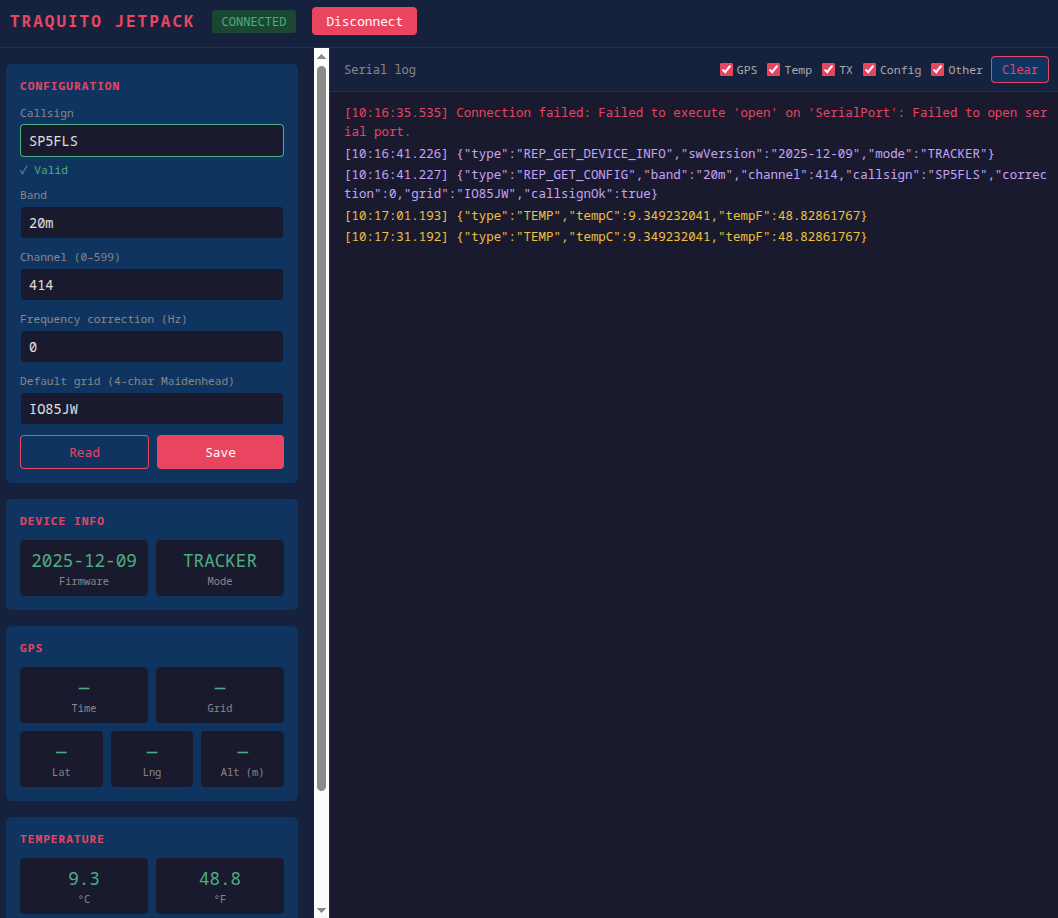
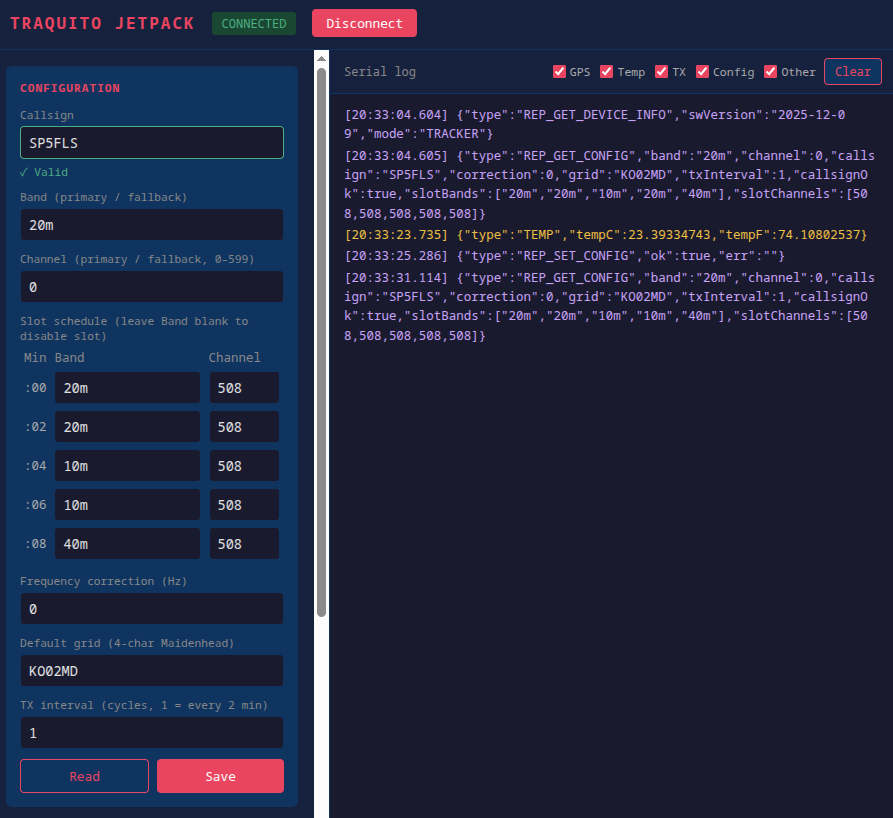
readme new screenshot

Changed region(s): [[0.0, 0.0, 0.9978, 1.0]]

diff --git a/README.md b/README.md
@@ -1,6 +1,6 @@
 # About
 
-This is a modification of the [Traquito Jetpack WSPR tracker](https://traquito.github.io/tracker/) firmware. The code is experimental.
+This is a modification of the [Traquito Jetpack WSPR tracker](https://traquito.github.io/tracker/) firmware to use the same, low cost jetpack hardware but as a regular WSPR beacon. The code is experimental.
 
 Disclaimer: most of the original code modifications have been vibe-coded using Claude Code.
 
@@ -22,17 +22,16 @@ That (and this) project relies heavily on [picoinf](https://github.com/dmalnati/
 - **Less frequent temperature reading** — polled every 30 seconds instead of every second.
 - **`config.html`** — local web page to configure the beacon over WebSerial (Chrome/Edge 89+).
 
-
 ## Use pre-compiled binaries
 
-Pre-compiled `.uf2` binaries are published in releases: https://github.com/filipsPL/TraquitoBeacon/releases/
+Pre-compiled `.uf2` binaries are published in releases: <https://github.com/filipsPL/TraquitoBeacon/releases/>
 
 To flash a `.uf2` file:
+
 1. Hold **BOOTSEL** on the Pico while plugging in USB — it mounts as `RPI-RP2`.
 2. Copy `TraquitoJetpack.uf2` to the drive. The device reboots automatically.
 
 > **Note:** After flashing firmware that changes the configuration struct layout, send `{"type":"REQ_DELETE_CONFIG"}` via serial to erase stale flash data, then reconfigure.
-
 
 ## How to compile
 
@@ -59,7 +58,6 @@ Output: `build/src/TraquitoJetpack.uf2`
 
 > **Note:** The `ext/picoinf` submodule contains local patches required for the Debian/Ubuntu toolchain. See [Build fixes](#build-fixes-for-debianubuntu-gcc-arm-none-eabi-132) below if you reset or update the submodule.
 
-
 ## Configuration
 
 ### Via `config.html` and Web Serial
@@ -73,15 +71,15 @@ Open `config.html` directly in Chrome or Edge (89+). Click **Connect**, select t
 
 **Configuration fields:**
 
-| Field | Description |
-|-------|-------------|
-| Callsign | Amateur radio callsign (up to 6 characters) |
-| Band | Primary/fallback band (e.g. `20m`) |
-| Channel | Primary/fallback channel (0–599) |
-| Frequency correction | Signed Hz offset to compensate for Si5351 crystal error |
-| Default grid | 4-char Maidenhead locator used before GPS 3D fix |
-| TX interval | Number of 10-minute cycles between transmissions (default 1) |
-| Slot schedule | Per-slot band + channel for each 2-minute window in the cycle |
+| Field                | Description                                                   |
+| -------------------- | ------------------------------------------------------------- |
+| Callsign             | Amateur radio callsign (up to 6 characters)                   |
+| Band                 | Primary/fallback band (e.g. `20m`)                            |
+| Channel              | Primary/fallback channel (0–599)                              |
+| Frequency correction | Signed Hz offset to compensate for Si5351 crystal error       |
+| Default grid         | 4-char Maidenhead locator used before GPS 3D fix              |
+| TX interval          | Number of 10-minute cycles between transmissions (default 1)  |
+| Slot schedule        | Per-slot band + channel for each 2-minute window in the cycle |
 
 **Slot schedule table** — each row corresponds to one 2-minute WSPR window within the 10-minute cycle. Leave the Band field blank to disable a slot (no transmission that window).
 
@@ -90,15 +88,16 @@ Open `config.html` directly in Chrome or Edge (89+). Click **Connect**, select t
 ### Via serial
 
 Open a serial console:
+
 ```bash
 tio --map INLCRNL,ODELBS --timestamp -e -b 115200 /dev/ttyACM0
 ```
 
 Send JSON commands, e.g.:
+
 ```json
 {"type":"REQ_SET_CONFIG","callsign":"SP5FLS","band":"20m","channel":414,"correction":0,"grid":"IO85","txInterval":1,"slotBands":["20m","10m","","",""],"slotChannels":[414,0,0,0,0]}
 ```
-
 
 ## Operational details
 
@@ -107,7 +106,7 @@ Send JSON commands, e.g.:
 The scheduler operates on a 10-minute cycle aligned to even UTC minutes (standard WSPR windows). Within each cycle there are 5 slots:
 
 | Slot | UTC minute offset | Configurable |
-|------|-------------------|--------------|
+| ---- | ----------------- | ------------ |
 | 1    | :00               | Yes          |
 | 2    | :02               | Yes          |
 | 3    | :04               | Yes          |
@@ -132,19 +131,19 @@ Output frequency is derived entirely from the configured band and channel via `W
 
 ### Config API
 
-| Command | Description |
-|---------|-------------|
-| `REQ_GET_CONFIG` | Returns all configuration fields including per-slot arrays |
-| `REQ_SET_CONFIG` | Sets all configuration fields; per-slot `slotBands[]` and `slotChannels[]` are optional (existing values kept if omitted) |
-| `REQ_DELETE_CONFIG` | Erases stored config from flash and resets to defaults. Required after firmware upgrades that change the config struct layout. |
-| `REQ_GET_DEVICE_INFO` | Returns firmware version and current mode |
-
+| Command               | Description                                                                                                                    |
+| --------------------- | ------------------------------------------------------------------------------------------------------------------------------ |
+| `REQ_GET_CONFIG`      | Returns all configuration fields including per-slot arrays                                                                     |
+| `REQ_SET_CONFIG`      | Sets all configuration fields; per-slot `slotBands[]` and `slotChannels[]` are optional (existing values kept if omitted)      |
+| `REQ_DELETE_CONFIG`   | Erases stored config from flash and resets to defaults. Required after firmware upgrades that change the config struct layout. |
+| `REQ_GET_DEVICE_INFO` | Returns firmware version and current mode                                                                                      |
 
 ## Build fixes for Debian/Ubuntu (gcc-arm-none-eabi 13.2)
 
 The `ext/picoinf` submodule required local patches to build on a standard Debian/Ubuntu toolchain. These patches are not upstream — reapply them if you reset or update the submodule.
 
 **Root causes:**
+
 - The packaged `gcc-arm-none-eabi` uses its own internal `stdint.h` rather than newlib's, so `__int64_t_defined` is never set, causing `PRIu64`/`SCNu*` macros from newlib's `inttypes.h` to be undefined even after `#include <cinttypes>`.
 - JerryScript's heap size (default 512 KB) was not being overridden correctly due to CMake cache variable precedence, causing the firmware's BSS to overflow Pico RAM by ~348 KB.
 - WsprEncoded unit tests were being compiled and cross-linked with the ARM toolchain (missing POSIX syscalls).
@@ -153,13 +152,13 @@ The `ext/picoinf` submodule required local patches to build on a standard Debian
 
 **Files patched:**
 
-| File | Change |
-|------|--------|
-| `ext/picoinf/CMakeLists.txt` | Add `__STDC_FORMAT_MACROS` compile definition; use `CACHE STRING "" FORCE` for JerryScript heap/stack limits |
-| `ext/picoinf/ext/WsprEncoded/CMakeLists.txt` | Suppress `-Werror=stringop-truncation`; skip `test/` subdirectory when not top-level project |
-| `ext/picoinf/src/App/Log/Log.cpp` | Replace `PRIu64`/`PRId64` with `%llu`/`%lld` |
-| `ext/picoinf/src/App/Utl/UtlString.h` | Add `#include <cstdint>` |
-| `ext/picoinf/src/App/Utl/UtlString.cpp` | Replace `PRIu64` with `%llu` |
-| `ext/picoinf/src/App/Service/TimeClass.cpp` | Replace `SCNu*` macros with `%u` and explicit casts |
-| `ext/picoinf/src/App/Peripheral/Clock.cpp` | Replace `clock_handle_t` with `enum clock_index` |
-| `src/Application.h` | `#include "Time.h"` → `#include "TimeClass.h"` |
+| File                                         | Change                                                                                                       |
+| -------------------------------------------- | ------------------------------------------------------------------------------------------------------------ |
+| `ext/picoinf/CMakeLists.txt`                 | Add `__STDC_FORMAT_MACROS` compile definition; use `CACHE STRING "" FORCE` for JerryScript heap/stack limits |
+| `ext/picoinf/ext/WsprEncoded/CMakeLists.txt` | Suppress `-Werror=stringop-truncation`; skip `test/` subdirectory when not top-level project                 |
+| `ext/picoinf/src/App/Log/Log.cpp`            | Replace `PRIu64`/`PRId64` with `%llu`/`%lld`                                                                 |
+| `ext/picoinf/src/App/Utl/UtlString.h`        | Add `#include <cstdint>`                                                                                     |
+| `ext/picoinf/src/App/Utl/UtlString.cpp`      | Replace `PRIu64` with `%llu`                                                                                 |
+| `ext/picoinf/src/App/Service/TimeClass.cpp`  | Replace `SCNu*` macros with `%u` and explicit casts                                                          |
+| `ext/picoinf/src/App/Peripheral/Clock.cpp`   | Replace `clock_handle_t` with `enum clock_index`                                                             |
+| `src/Application.h`                          | `#include "Time.h"` → `#include "TimeClass.h"`                                                               |